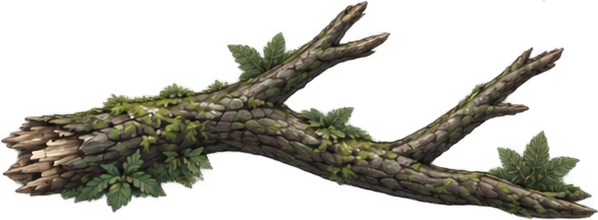
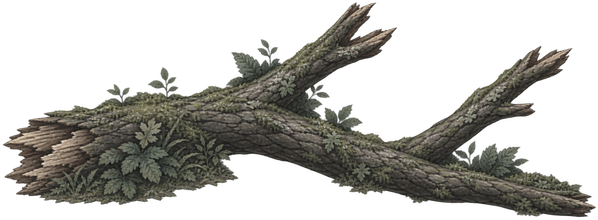
Add files via upload

diff --git a/sidescroll.js b/sidescroll.js
@@ -1,7 +1,7 @@
 (() => {
   'use strict';
 
-  // SideScroll v0.2.56: crop the fallen-tree texture to its real painted bounds so it regains the authored size and sits on the ground; preserve authored puzzle aspect ratios.
+  // SideScroll v0.2.57: apply the approved muted woodland art treatment across the remaining puzzle prop textures while preserving their authored footprints.
 
   const queryParams = new URLSearchParams(window.location.search);
   const PLAYER_MODE = queryParams.get('mode') === 'player';
@@ -723,7 +723,7 @@
     return tex;
   }
 
-  textures.pathDirt = createRepeatingImageTexture('terrain-dirt.png?v=0.2.56', 'terrain dirt texture', {
+  textures.pathDirt = createRepeatingImageTexture('terrain-dirt.png?v=0.2.57', 'terrain dirt texture', {
     placeholderDraw: drawFallbackTerrainTexture,
     potSize: 1024
   });
@@ -731,8 +731,8 @@
   // v1.8.81: forest dressing now comes from one authored atlas.
   // This removes the old per-file fallback path which could substitute the
   // full woodland source sheet when an individual PNG failed to load.
-  textures.dressingAtlas = createImageTexture('sidescroll-dressing-atlas.png?v=0.2.56', 'SideScroll dressing atlas');
-  textures.treeAtlas = createImageTexture('sidescroll-tree-atlas.png?v=0.2.56', 'SideScroll tree atlas');
+  textures.dressingAtlas = createImageTexture('sidescroll-dressing-atlas.png?v=0.2.57', 'SideScroll dressing atlas');
+  textures.treeAtlas = createImageTexture('sidescroll-tree-atlas.png?v=0.2.57', 'SideScroll tree atlas');
   const assetUv = {
     tree06: { scale: [0.143066406, 0.497070312], offset: [0.699707031, 0.495117188] },
     tree02: { scale: [0.186523438, 0.483398438], offset: [0.131347656, 0.508789062] },
@@ -3727,7 +3727,7 @@
     return {
       format:'SideScrollPuzzle',
       formatVersion:1,
-      appVersion:'0.2.56',
+      appVersion:'0.2.57',
       exportedAt:new Date().toISOString(),
       marker:{ id:marker.id, group:marker.group, x:marker.x, local:markerIsUserCreated(marker) },
       definition:deepCopy(def),
@@ -3746,7 +3746,7 @@
       const def = groupDefinition(groupId);
       if (!groupId || !def) return;
       payload = {
-        format:'SideScrollPuzzleTemplate', formatVersion:1, appVersion:'0.2.56', exportedAt:new Date().toISOString(),
+        format:'SideScrollPuzzleTemplate', formatVersion:1, appVersion:'0.2.57', exportedAt:new Date().toISOString(),
         group:groupId, definition:deepCopy(def), savedStart:deepCopy(templateStartForGroup(groupId)),
         source:groupIsUserCreated(groupId) ? 'local-library' : 'library'
       };
@@ -3836,7 +3836,7 @@
     return {
       format:'SideScrollGameDesign',
       formatVersion:1,
-      appVersion:'0.2.56',
+      appVersion:'0.2.57',
       exportedAt:new Date().toISOString(),
       purpose:'Complete authoring handoff: scene placement, puzzle placement/setup, reusable asset settings, collectables and camera tuning.',
       world:{

diff --git a/puzzle-groups.js b/puzzle-groups.js
@@ -1,19 +1,19 @@
 window.SideScrollPuzzleConfig = {
-  version: 9,
+  version: 10,
   assetPacks: {
     "woodland-puzzle-atlas-v1": {
       assets: [
-        { name: "puzzle-log-a", url: "puzzle-log-a.png?v=0.2.8", aspect: 1.7095 },
-        { name: "puzzle-log-b", url: "puzzle-log-b.png?v=0.2.8", aspect: 1.5423 },
-        { name: "puzzle-log-c", url: "puzzle-log-c.png?v=0.2.8", aspect: 2.1916 },
-        { name: "puzzle-log-d", url: "puzzle-log-d.png?v=0.2.8", aspect: 2.3850 },
-        { name: "fallen-tree", url: "fallen-tree.png?v=0.2.56", aspect: 2.3644 },
-        { name: "tree-stump", url: "tree-stump.png?v=0.2.8", aspect: 2.4223 },
-        { name: "broken-branch", url: "broken-branch.png?v=0.2.8", aspect: 2.7182 },
-        { name: "stone-wall", url: "stone-wall.png?v=0.2.25", aspect: 3.1356 },
-        { name: "stone-piece-a", url: "stone-piece-a.png?v=0.2.25", aspect: 1.0664 },
-        { name: "stone-piece-b", url: "stone-piece-b.png?v=0.2.25", aspect: 0.9545 },
-        { name: "stone-piece-c", url: "stone-piece-c.png?v=0.2.25", aspect: 1.1278 }
+        { name: "puzzle-log-a", url: "puzzle-log-a.png?v=0.2.57", aspect: 1.7095 },
+        { name: "puzzle-log-b", url: "puzzle-log-b.png?v=0.2.57", aspect: 1.5423 },
+        { name: "puzzle-log-c", url: "puzzle-log-c.png?v=0.2.57", aspect: 2.1916 },
+        { name: "puzzle-log-d", url: "puzzle-log-d.png?v=0.2.57", aspect: 2.3850 },
+        { name: "fallen-tree", url: "fallen-tree.png?v=0.2.57", aspect: 2.3644 },
+        { name: "tree-stump", url: "tree-stump.png?v=0.2.57", aspect: 2.4223 },
+        { name: "broken-branch", url: "broken-branch.png?v=0.2.57", aspect: 2.7182 },
+        { name: "stone-wall", url: "stone-wall.png?v=0.2.57", aspect: 3.1356 },
+        { name: "stone-piece-a", url: "stone-piece-a.png?v=0.2.57", aspect: 1.0664 },
+        { name: "stone-piece-b", url: "stone-piece-b.png?v=0.2.57", aspect: 0.9545 },
+        { name: "stone-piece-c", url: "stone-piece-c.png?v=0.2.57", aspect: 1.1278 }
       ]
     }
   },

diff --git a/play.html b/play.html
@@ -9,7 +9,7 @@
   <meta name="theme-color" content="#081015">
   <link rel="manifest" href="manifest.json">
   <link rel="apple-touch-icon" href="icon-192.png">
-  <link rel="stylesheet" href="style.css?v=0.2.56">
+  <link rel="stylesheet" href="style.css?v=0.2.57">
   <title>SideScroll</title>
 </head>
 <body class="modular-game ss-standalone-game" data-game-id="game-16">
@@ -279,11 +279,11 @@
     </section>
   </main>
 
-  <script src="site-config.js?v=0.2.56"></script>
-  <script src="core.js?v=0.2.56"></script>
-  <script src="walk-rig.js?v=0.2.56"></script>
-  <script src="puzzle-groups.js?v=0.2.56"></script>
-  <script src="baked-game-design.js?v=0.2.56"></script>
-  <script src="sidescroll.js?v=0.2.56"></script>
+  <script src="site-config.js?v=0.2.57"></script>
+  <script src="core.js?v=0.2.57"></script>
+  <script src="walk-rig.js?v=0.2.57"></script>
+  <script src="puzzle-groups.js?v=0.2.57"></script>
+  <script src="baked-game-design.js?v=0.2.57"></script>
+  <script src="sidescroll.js?v=0.2.57"></script>
 </body>
 </html>

diff --git a/walk-lab.html b/walk-lab.html
@@ -9,7 +9,7 @@
   <meta name="theme-color" content="#e7dbd2">
   <link rel="manifest" href="manifest.json">
   <link rel="apple-touch-icon" href="icon-192.png">
-  <link rel="stylesheet" href="style.css?v=0.2.56">
+  <link rel="stylesheet" href="style.css?v=0.2.57">
   <title>Walk Lab · SideScroll</title>
 </head>
 <body class="modular-game ss-standalone-game" data-game-id="game-17">
@@ -78,9 +78,9 @@
     </section>
   </main>
 
-  <script src="site-config.js?v=0.2.56"></script>
-  <script src="core.js?v=0.2.56"></script>
-  <script src="walk-rig.js?v=0.2.56"></script>
-  <script src="walk-lab.js?v=0.2.56"></script>
+  <script src="site-config.js?v=0.2.57"></script>
+  <script src="core.js?v=0.2.57"></script>
+  <script src="walk-rig.js?v=0.2.57"></script>
+  <script src="walk-lab.js?v=0.2.57"></script>
 </body>
 </html>

diff --git a/index.html b/index.html
@@ -9,7 +9,7 @@
   <meta name="theme-color" content="#172026">
   <link rel="manifest" href="manifest.json">
   <link rel="apple-touch-icon" href="icon-192.png">
-  <link rel="stylesheet" href="style.css?v=0.2.56">
+  <link rel="stylesheet" href="style.css?v=0.2.57">
   <title>SideScroll</title>
 </head>
 <body class="modular-home ss-home">
@@ -52,8 +52,8 @@
     </section>
   </div>
 
-  <script src="site-config.js?v=0.2.56"></script>
-  <script src="core.js?v=0.2.56"></script>
-  <script src="home.js?v=0.2.56"></script>
+  <script src="site-config.js?v=0.2.57"></script>
+  <script src="core.js?v=0.2.57"></script>
+  <script src="home.js?v=0.2.57"></script>
 </body>
 </html>

diff --git a/sw.js b/sw.js
@@ -1,4 +1,4 @@
-const CACHE = "sidescroll-v0.2.56";
+const CACHE = "sidescroll-v0.2.57";
 const APP_SHELL = [
   "./",
   "./index.html",

diff --git a/README.md b/README.md
@@ -1,7 +1,6 @@
-# SideScroll v0.2.56
+# SideScroll v0.2.57
 
-- Cropped the new fallen-tree texture to its actual visible alpha bounds, removing the ~10% empty area beneath/around the painted asset that made it look raised and undersized.
-- Kept the authored fallen-tree world transform and collision unchanged.
-- Kept the synthetic fallen-tree shadow disabled.
-- Puzzle image loading now preserves configured authored aspect ratios instead of letting the asynchronous source-image ratio overwrite them.
-- Includes the v0.2.55 smaller/lighter movement controls.
+- Replaced the remaining woodland puzzle prop textures with the new muted painterly style pass.
+- Updated broken branch, stump, stone wall, three stone pieces, and four moveable logs.
+- Preserved each existing PNG canvas size and the old artwork alpha footprint so authored scale, position and collision remain unchanged.
+- Kept the v0.2.56 fallen-tree placement fix and dedicated native-resolution tree atlas.
